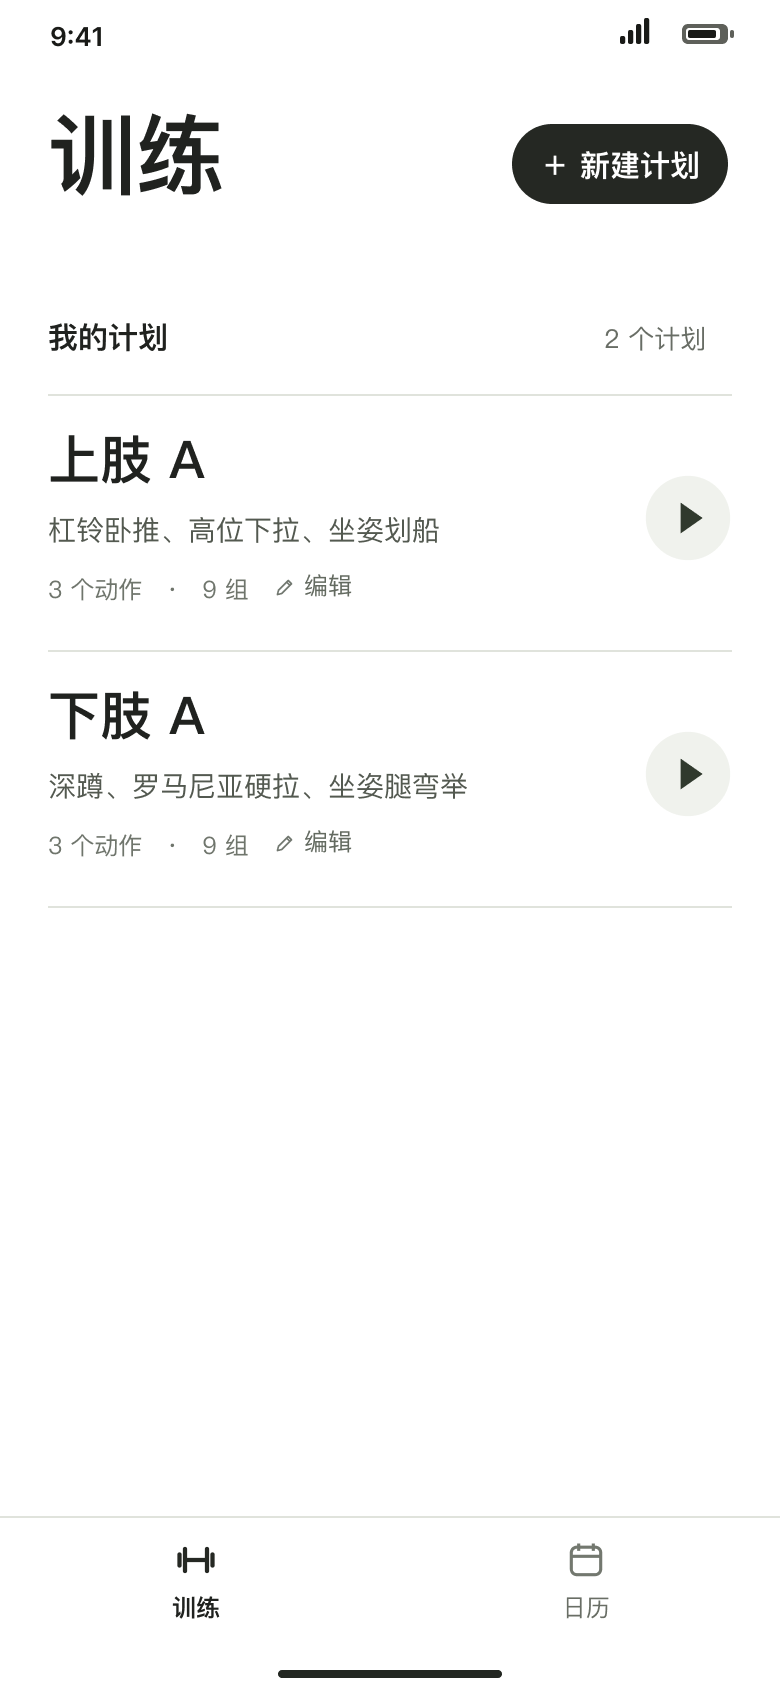
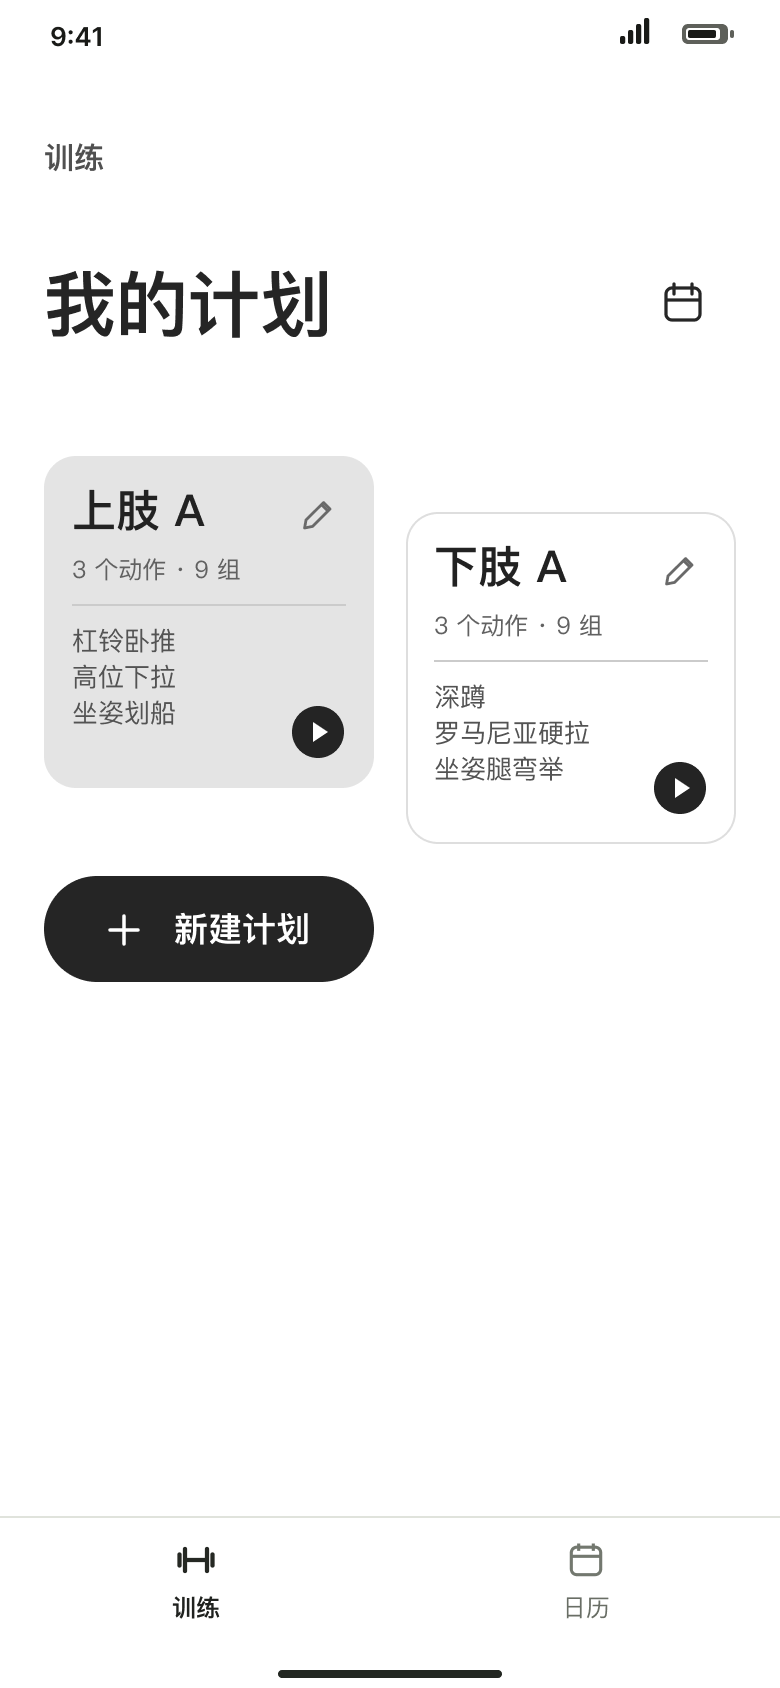
design: 采用手改训练首页并校齐错落双卡

diff --git a/docs/设计日志/健身/设计日志.md b/docs/设计日志/健身/设计日志.md
@@ -62,3 +62,8 @@
 
 - 用户喜欢 01B 的卡片模式，希望继续比较三个版本，并另外看一版更小的卡片；随后指定去掉图标与大面积黑色。01H–01K 采用白色和淡灰卡面，以可编辑文字提供编辑、新建和日历入口。
 - 01H 横向分栏展示计划与动作；01I 两张方卡错位并排；01J 用交叠便签保留动作摘要；01K 将卡片压到 146 × 90，只展示计划名称、动作数、组数和编辑入口。在首页点计划可直接开练。见[四版预览](预览/训练首页-浅色小卡.png)。
+
+## 2026-11-11-10｜确认手改 01 首页并校齐双卡
+
+- 用户选定 01 手改稿。保留两卡 28 px 高低差、图标、按钮样式与底部导航；左右边距统一为 22 px，列间距为 16 px，卡宽及新建按钮宽均为 165 px。
+- 对齐卡内标题、分隔线和控件，校正上肢编辑连线。已回读两处开练、两处编辑、新建及两处日历目标，重新导出[现行首页预览](预览/8-245.png)。

diff --git a/docs/设计日志/健身/设计与写作规则.md b/docs/设计日志/健身/设计与写作规则.md
@@ -8,6 +8,7 @@
 
 - 手机端用 `/gym` 记录自己的训练。
 - 手机端「训练」首页兼作「我的计划」，展示自己建立的计划，并提供新建入口。点计划直接开始该计划的训练，首页不放自由训练入口。
+- 首页布局以用户手改并完成对齐的 01 为准：计划卡双列错落，新建按钮位于卡片下方，底部保留训练与日历导航。[当前画板与预览](新窗口交接.md#figma-评审入口)
 - 手机端另有训练进行中、训练日历（历史）和单次训练详情。动作库支持为计划添加多个动作。
 - 网页端用 `/gym/dashboard` 查看健身数据概览。
 
